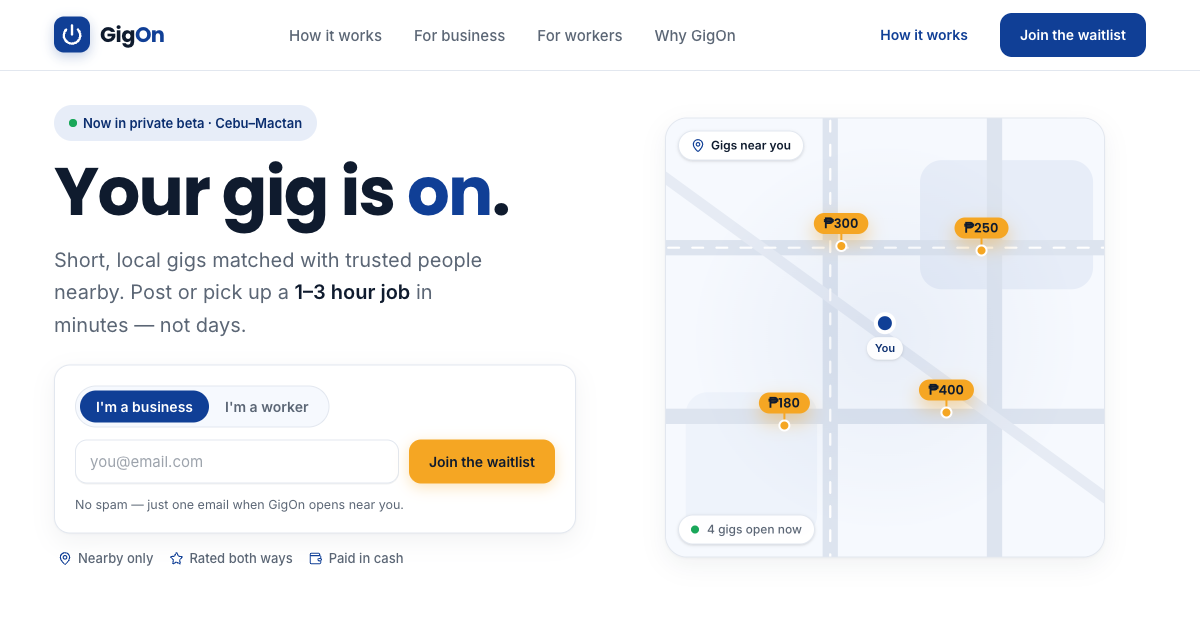
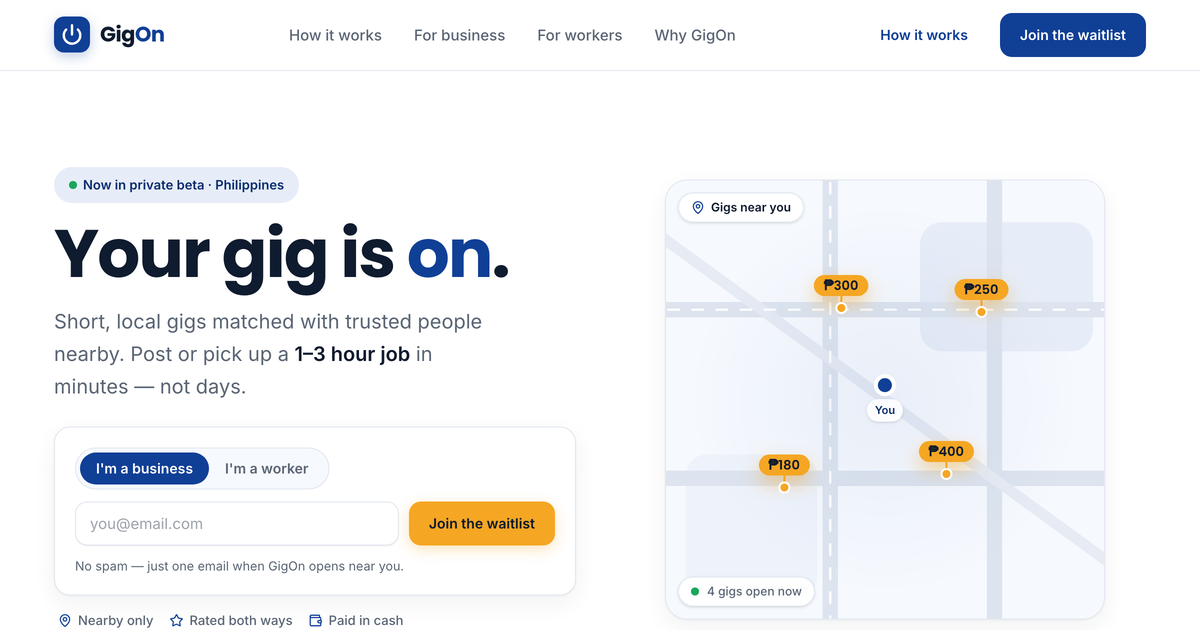
feat(web): expand GigOn beta to nationwide Philippines
Drop the Cebu–Mactan beta-city framing; GigOn now targets the whole
Philippines.

- site.ts: copy → "across the Philippines"; locationLabel "the
  Philippines" (in-sentence) + new region "Philippines" (chips/eyebrow)
- hero eyebrow → "Now in private beta · Philippines"
- footer Coverage + colophon, SEO keywords (drop Cebu/Mactan, add nationwide)
- regenerate OG/Twitter images + alt text from the updated hero
- brand docs (README, guidelines, messaging) updated to match

diff --git a/apps/web/lib/site.ts b/apps/web/lib/site.ts
@@ -6,10 +6,13 @@ export const siteConfig = {
   domain: "gigon.io",
   url: "https://gigon.io",
   description:
-    "GigOn connects small businesses with trusted workers nearby for the quick 1–3 hour jobs you need filled right now. No more hunting through Facebook groups. Now in private beta in Cebu–Mactan.",
+    "GigOn connects small businesses with trusted workers nearby for the quick 1–3 hour jobs you need filled right now. No more hunting through Facebook groups. Now in private beta across the Philippines.",
   shortDescription:
-    "Short, local gigs — matched with trusted people nearby. Now in private beta in Cebu–Mactan.",
-  locationLabel: "Cebu–Mactan",
+    "Short, local gigs — matched with trusted people nearby. Now in private beta across the Philippines.",
+  /** Grammatical, for in-sentence use ("Be first in the Philippines."). */
+  locationLabel: "the Philippines",
+  /** Short label, for chips/eyebrows ("Now in private beta · Philippines"). */
+  region: "Philippines",
   contactEmail: "[email redacted]",
   nav: [
     { label: "How it works", href: "#how" },

diff --git a/apps/web/components/sections/site-footer.tsx b/apps/web/components/sections/site-footer.tsx
@@ -23,8 +23,8 @@ const COLUMNS = [
   {
     heading: "Coverage",
     links: [
-      { label: "Cebu–Mactan", href: "#top" },
-      { label: "More cities soon", href: "#waitlist" },
+      { label: "Philippines", href: "#top" },
+      { label: "Nationwide rollout", href: "#waitlist" },
     ],
   },
 ];
@@ -67,7 +67,7 @@ export function SiteFooter() {
 
         <div className="mt-10 flex flex-col items-start justify-between gap-3 border-t border-line pt-6 text-[13.5px] text-slate sm:flex-row sm:items-center">
           <span>© {year} GigOn. All rights reserved.</span>
-          <span>Private beta · Cebu, Philippines</span>
+          <span>Private beta · Philippines</span>
         </div>
       </div>
     </footer>

diff --git a/apps/web/app/layout.tsx b/apps/web/app/layout.tsx
@@ -28,9 +28,8 @@ export const metadata: Metadata = {
   keywords: [
     "GigOn",
     "gig work",
-    "Cebu",
-    "Mactan",
     "Philippines",
+    "nationwide",
     "local jobs",
     "part-time work",
     "hire nearby",

diff --git a/apps/web/components/sections/hero.tsx b/apps/web/components/sections/hero.tsx
@@ -23,7 +23,7 @@ export function Hero() {
               <span className="absolute inline-flex size-2 animate-ping rounded-full bg-success/70" />
               <span className="relative inline-flex size-2 rounded-full bg-success" />
             </span>
-            Now in private beta · {siteConfig.locationLabel}
+            Now in private beta · {siteConfig.region}
           </Badge>
 
           <h1 className="text-balance text-[clamp(2.5rem,8vw,4.2rem)] leading-[1.04] text-ink">

diff --git a/docs/brand/messaging.md b/docs/brand/messaging.md
@@ -54,11 +54,11 @@ trust, close to home.
 3. **Audience split** — business vs worker value, side by side.
 4. **How it works** — Post → Match → Get it done → Both confirm.
 5. **Why GigOn** — the four trust pillars.
-6. **Final CTA** — _Be first in Cebu–Mactan._ + waitlist.
+6. **Final CTA** — _Be first in the Philippines._ + waitlist.
 
 ## Localisation notes
 
-- **Market:** Philippines; **beta city:** Cebu–Mactan (`en_PH` locale).
+- **Market:** Philippines — nationwide private beta (`en_PH` locale).
 - **Currency:** peso, `₱` glyph, no decimals on the landing (`₱300`).
 - **Language:** clear English (the norm for PH urban business). Keep it simple
   so it reads naturally to Bisaya/Tagalog speakers; avoid heavy idiom.
@@ -67,12 +67,12 @@ trust, close to home.
 ## Approved copy bank
 
 - Tagline: **Your gig is on.**
-- Eyebrow: **Now in private beta · Cebu–Mactan**
+- Eyebrow: **Now in private beta · Philippines**
 - Waitlist button: **Join the waitlist**
 - Waitlist reassurance: **No spam — just one email when GigOn opens near you.**
 - Success: **You're on the list.** / _We'll email you the moment GigOn goes live
-  in Cebu–Mactan._
-- Final CTA: **Be first in Cebu–Mactan.**
+  in the Philippines._
+- Final CTA: **Be first in the Philippines.**
 
 ## Out of scope (for now)
 

diff --git a/docs/brand/brand-guidelines.md b/docs/brand/brand-guidelines.md
@@ -52,8 +52,8 @@ fairly, confirmed by both sides.
    clear and universal, not slang-heavy.)
 2. **Trust-forward.** Lead with safety, proximity, and "you'll actually get
    paid." Trust isn't a feature; it's the point.
-3. **Local & concrete.** Real places (Cebu–Mactan), real money (₱), real time
-   (1–3 hrs). Avoid abstract startup-speak.
+3. **Local & concrete.** Real places (your city, your barangay), real money (₱),
+   real time (1–3 hrs). Avoid abstract startup-speak.
 4. **Warm, not hype.** Encouraging and human. No exclamation-mark salesmanship.
 
 **Do / Don't**
@@ -69,7 +69,7 @@ fairly, confirmed by both sides.
 
 - Brand: **GigOn**. Tagline: _Your gig is on._
 - Currency: peso glyph `₱` with no space (`₱300`).
-- Ranges use an en dash: `1–3 hrs`, `Cebu–Mactan`.
+- Ranges use an en dash: `1–3 hrs`, `Mon–Sat`.
 
 ## Accessibility (part of the brand)
 

diff --git a/docs/brand/README.md b/docs/brand/README.md
@@ -4,7 +4,7 @@
 > GigOn is a local, map-first marketplace that connects small businesses with
 > trusted workers nearby for short **1–3 hour** gigs (cleaning, laundry, extra
 > hands for a rush). Think _"당근알바, for the Philippines"_ — proximity and
-> trust first. Currently a **private beta in Cebu–Mactan**; the public face is a
+> trust first. Currently a **nationwide private beta in the Philippines**; the public face is a
 > landing page that validates the problem and collects waitlist sign-ups.
 
 This folder is the source of truth for everything brand. The implementation